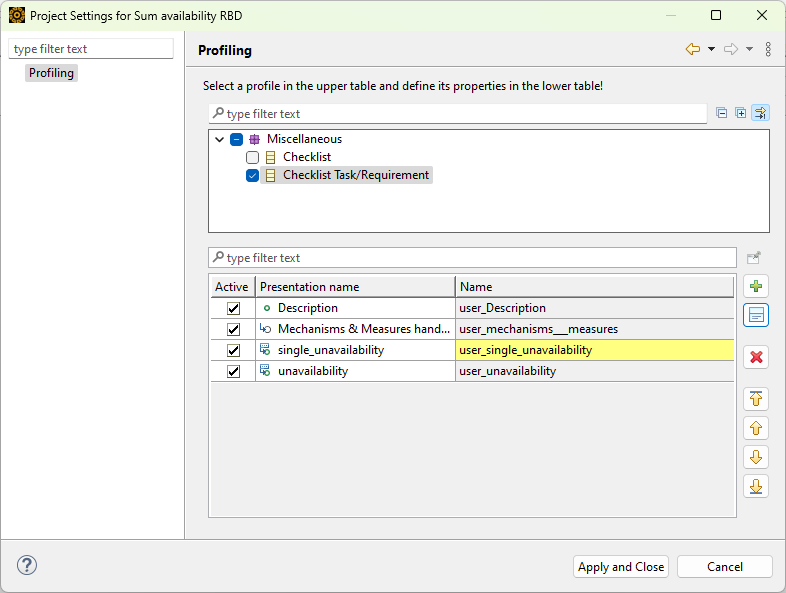
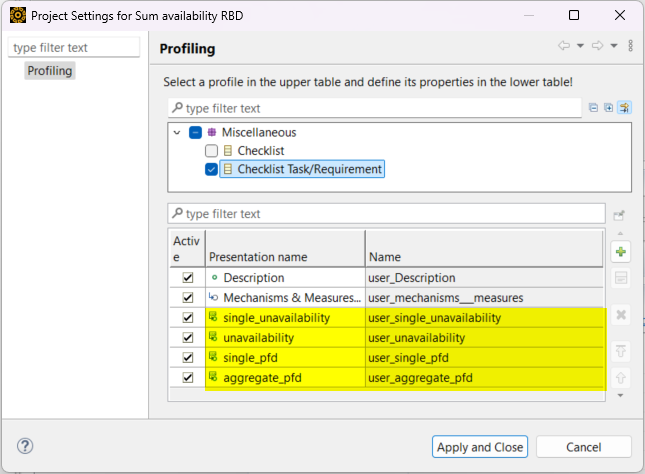
fix names of PFD and add unavailability profile
note that in the previous version, the values were not unavailability but PFD.

Changed region(s): [[0.0, 0.0, 1.0, 1.0], [0.8992, 0.0, 0.9302, 0.0295]]

diff --git a/executable scripts/sum availability RBD/README.md b/executable scripts/sum availability RBD/README.md
@@ -8,6 +8,8 @@ Step 2. Execute the script on a pacakge that has multiple RBDs
 
 Step 3. The checklist that has unavailability will be generated.
 ![the checklist will be generated](screenshot3.png)
+> **Note**: The items circled by red frames will be generated automatically by the script you executed. The checklist and its cell of related artifacts.\
+The highlight part (The unavailability and PFD) is computed by the script written in profiles, meaning that they are not related to the script you executed.
 
 ## Note
 1. RBDs without a cutset will be ignored, since no information of unavailability.
@@ -15,12 +17,18 @@ Step 3. The checklist that has unavailability will be generated.
 1. Two profiles defined in checklist should be setup if you want to use the script in your own project.
 
 ## Profile settings
-`Miscellanous`->`Checklist Task/Requirement`
+Profiles:`Miscellanous`->`Checklist Task/Requirement`
 
 single_unavailability (Derived property, OCL):
+`self.artifacts.oclAsType(rbd::RBDAnalysisModel).unavailability`
+
+aggregate_unavailability (Derived property, OCL):
+`1 - (self.artifacts.oclAsType(rbd::RBDAnalysisModel).unavailability->iterate(elem : Real; acc : Real = 1 | acc * (1-elem)))`
+
+single_pfd (Derived property, OCL):
 `self.artifacts.oclAsType(rbd::RBDAnalysisModel).averageUnavailability`
 
-unavailability (Derived property, OCL):
+aggregate_pfd (Derived property, OCL):
 `1 - (self.artifacts.oclAsType(rbd::RBDAnalysisModel).averageUnavailability ->iterate(elem : Real; acc : Real = 1 | acc * (1-elem)))`
 
 ![Profiles](screenshot4.png)
